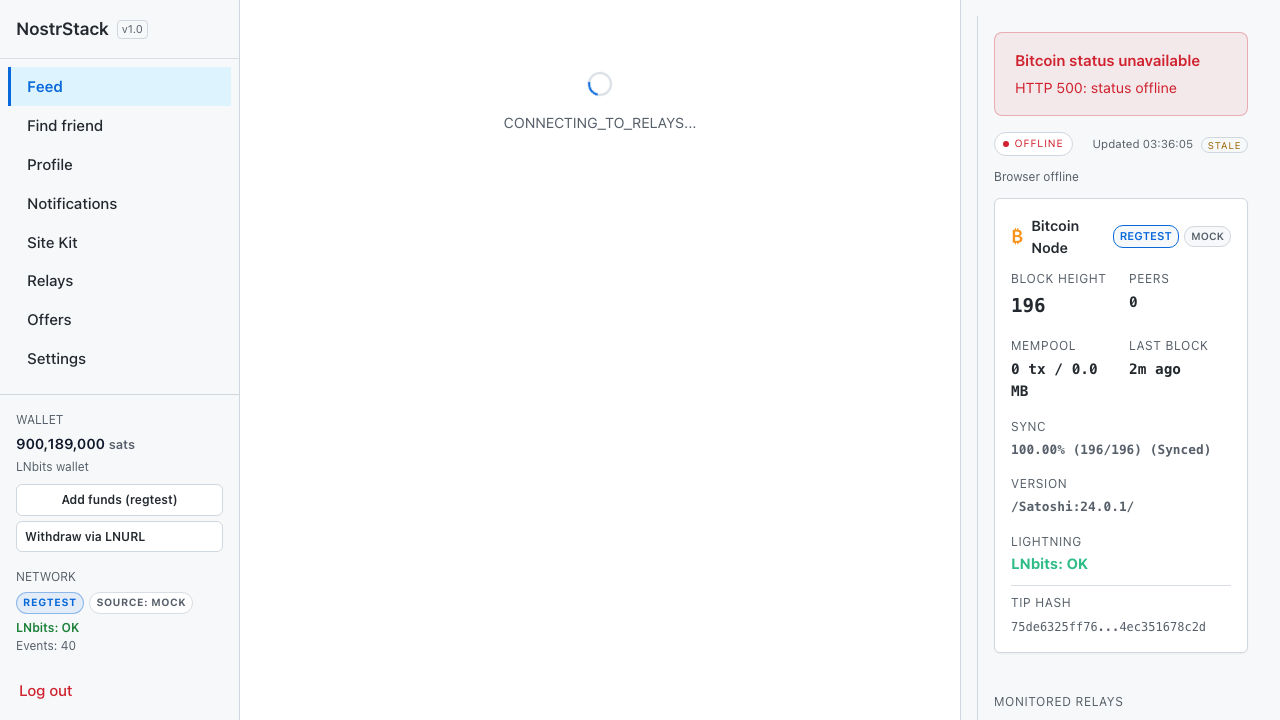
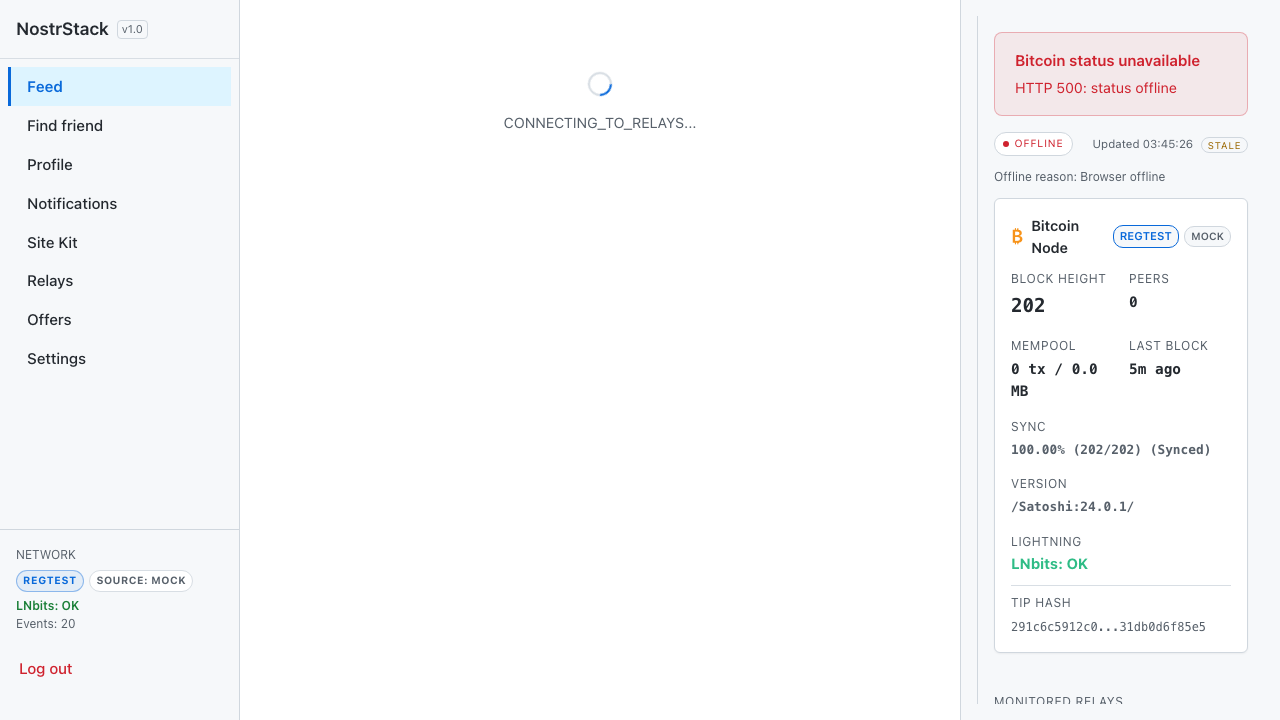
lightning-71bc: a11y telemetry status announcements
Add aria-live status row and update telemetry reconnect spec/screenshots.

Files: apps/gallery/src/TelemetryBar.tsx, apps/gallery/tests/telemetry-reconnect.spec.ts, docs/screenshots/telemetry-reconnect/telemetry-reconnect.png, docs/screenshots/telemetry-reconnect/telemetry-offline.png, .beads/issues.jsonl

diff --git a/apps/gallery/tests/telemetry-reconnect.spec.ts b/apps/gallery/tests/telemetry-reconnect.spec.ts
@@ -76,6 +76,10 @@ test('telemetry reconnect and offline fallback states', async ({ page }) => {
 
   await page.goto('/');
 
+  const statusRow = page.locator('.telemetry-status-row');
+  await expect(statusRow).toHaveAttribute('role', 'status');
+  await expect(statusRow).toHaveAttribute('aria-live', 'polite');
+
   const statusBadge = page.locator('.telemetry-status');
   await expect(statusBadge).toHaveAttribute('data-status', 'connected', { timeout: 10000 });
   await expect(statusBadge).toContainText('Connected');
@@ -91,6 +95,7 @@ test('telemetry reconnect and offline fallback states', async ({ page }) => {
   await setBrowserOffline(page);
 
   await expect(statusBadge).toHaveAttribute('data-status', 'offline');
+  await expect(page.locator('.telemetry-status-note')).toContainText('Offline reason');
   await expect(page.locator('.telemetry-status-note')).toContainText('Browser offline');
   await expect(page.locator('.telemetry-status-stale')).toBeVisible({ timeout: 5000 });
 

diff --git a/apps/gallery/src/TelemetryBar.tsx b/apps/gallery/src/TelemetryBar.tsx
@@ -585,7 +585,7 @@ export function TelemetryBar() {
           Real sats and payments are live.
         </Alert>
       )}
-      <div className="telemetry-status-row">
+      <div className="telemetry-status-row" role="status" aria-live="polite">
         <span className="telemetry-status" data-status={wsStatus}>
           <span className="telemetry-status-dot" />
           {wsStatusLabel}
@@ -597,7 +597,7 @@ export function TelemetryBar() {
       </div>
       {wsStatus === 'offline' && offlineReason && (
         <div className="telemetry-status-note">
-          {offlineReason}
+          Offline reason: {offlineReason}
         </div>
       )}
       {nodeInfoWithConfig && (
